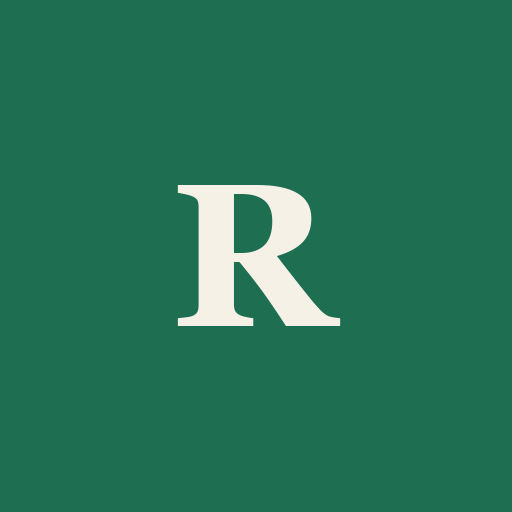
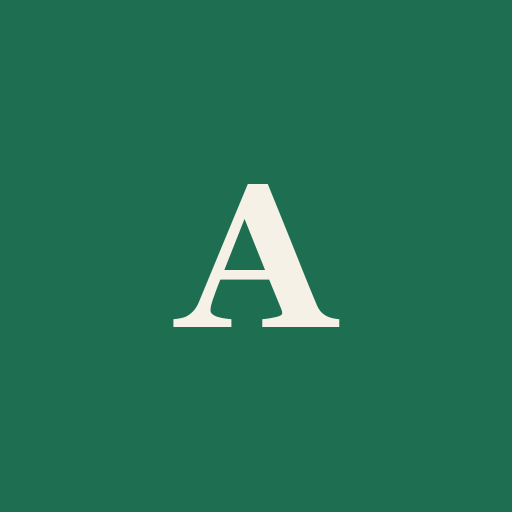
Rename app to Abdulaahi Muhumed

Changed region(s): [[0.3438, 0.3438, 0.625, 0.6562], [0.625, 0.5938, 0.6562, 0.625]]

diff --git a/index.html b/index.html
@@ -3,7 +3,7 @@
 <head>
 <meta charset="UTF-8">
 <meta name="viewport" content="width=device-width, initial-scale=1.0">
-<title>Rowda Finance</title>
+<title>Abdulaahi Muhumed</title>
 <meta name="description" content="A personal income and outcome tracker.">
 <link rel="manifest" href="manifest.json">
 <meta name="theme-color" content="#1E6E52">
@@ -12,7 +12,7 @@
 <meta name="mobile-web-app-capable" content="yes">
 <meta name="apple-mobile-web-app-capable" content="yes">
 <meta name="apple-mobile-web-app-status-bar-style" content="black-translucent">
-<meta name="apple-mobile-web-app-title" content="Rowda Finance">
+<meta name="apple-mobile-web-app-title" content="Abdulaahi Muhumed">
 <link rel="preconnect" href="https://fonts.googleapis.com">
 <link rel="preconnect" href="https://fonts.gstatic.com" crossorigin>
 <link href="https://fonts.googleapis.com/css2?family=Fraunces:ital,opsz,wght@0,9..144,500;0,9..144,600;0,9..144,700;1,9..144,500&family=Work+Sans:wght@400;500;600&family=IBM+Plex+Mono:wght@400;500;600&display=swap" rel="stylesheet">
@@ -376,7 +376,7 @@
 
   <header>
     <div class="eyebrow">Personal Ledger</div>
-    <h1>Rowda Finance</h1>
+    <h1>Abdulaahi Muhumed</h1>
     <div class="subhead">Track what comes in and what goes out.</div>
   </header>
 
